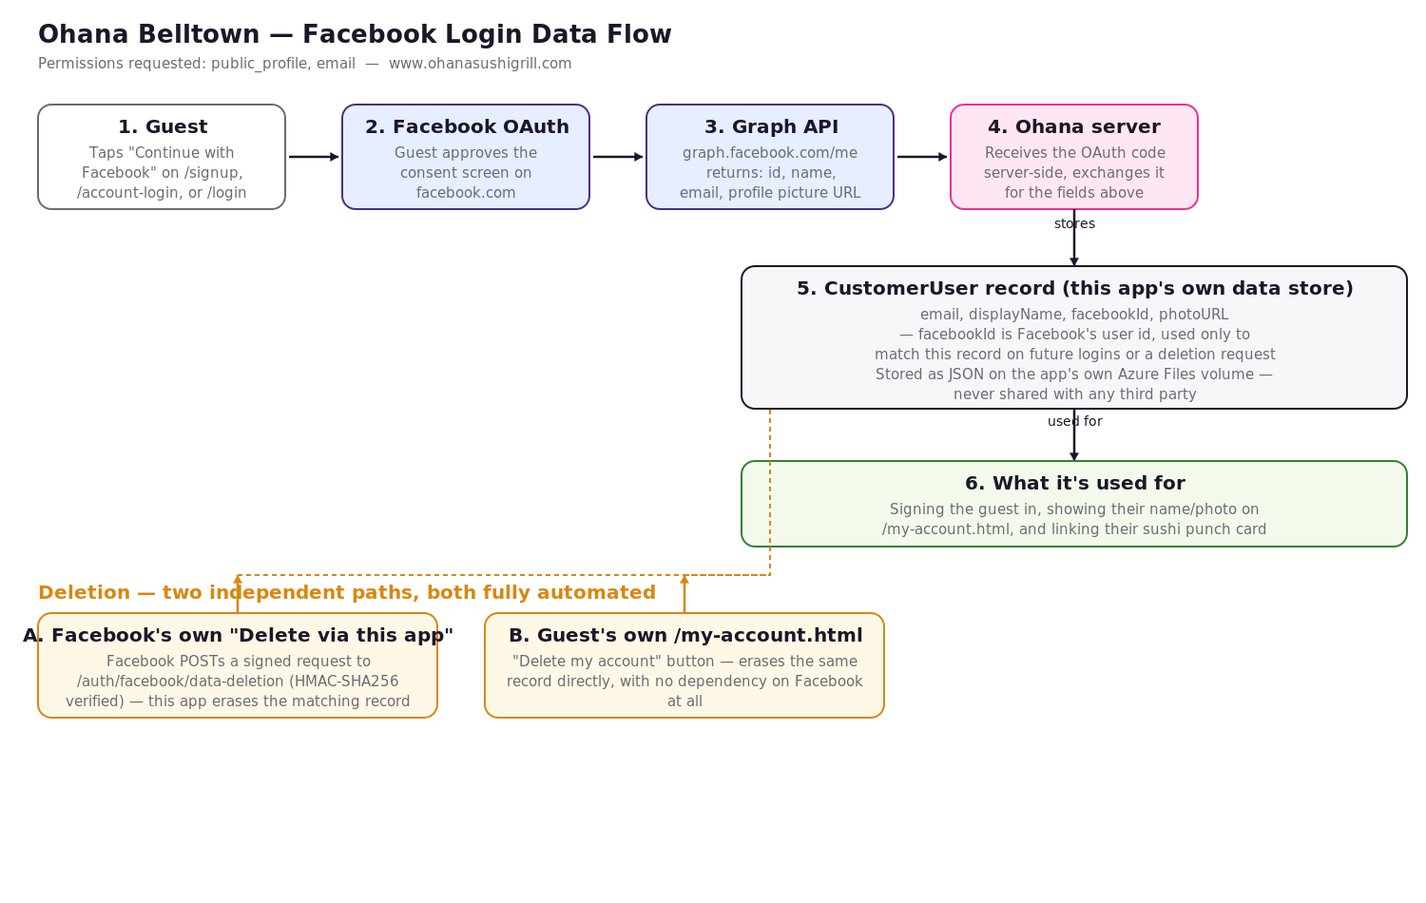
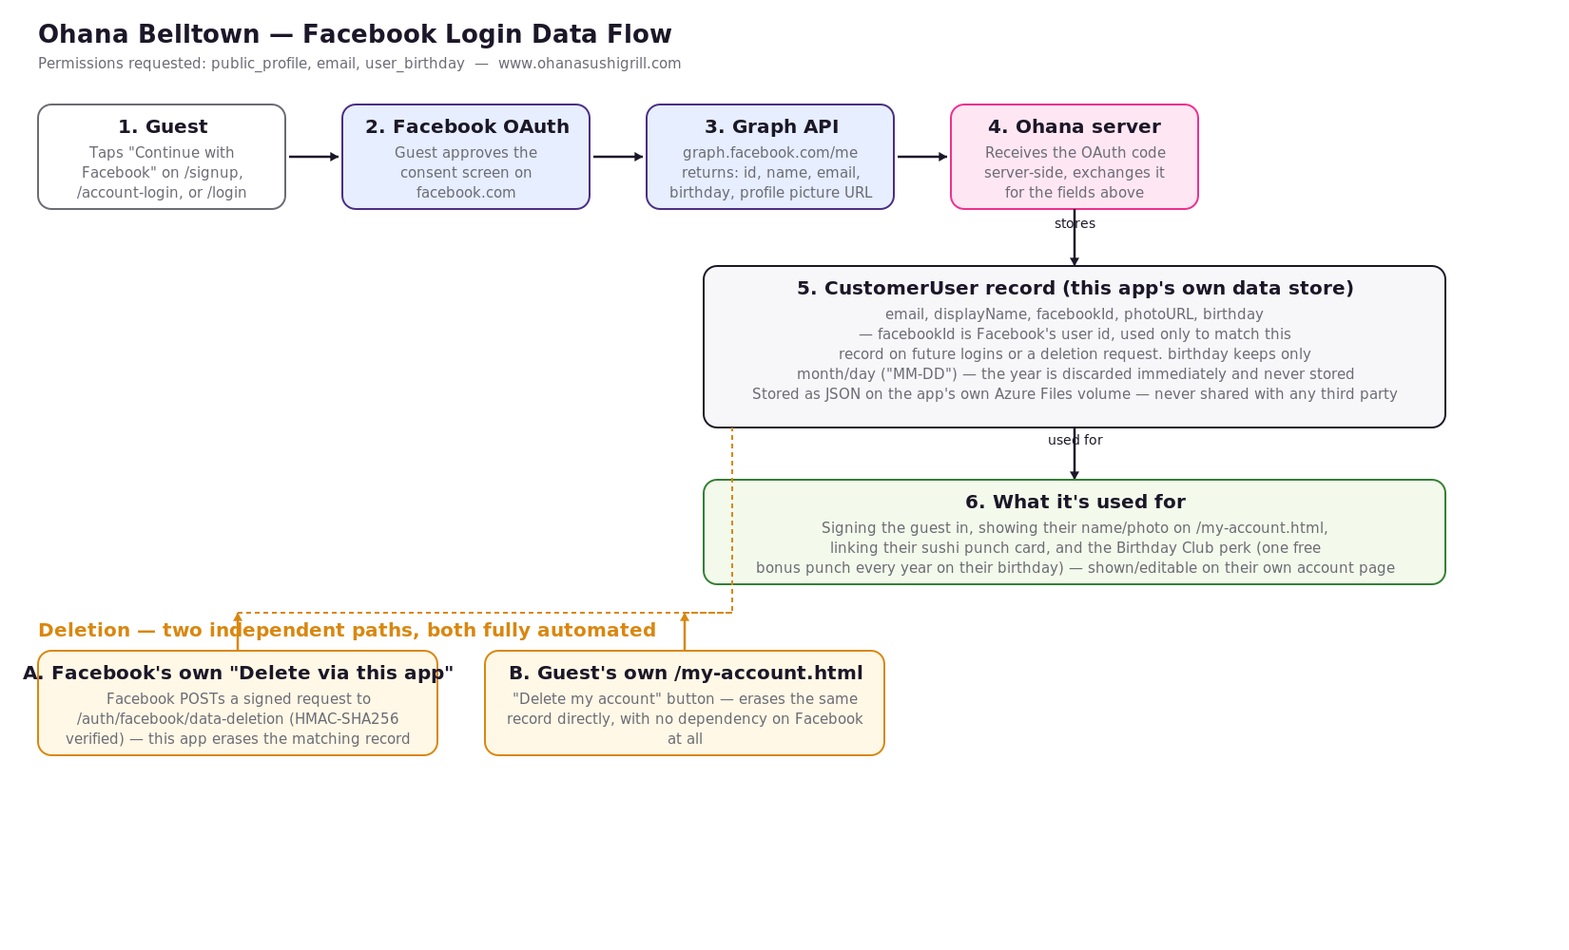
Backfill Birthday Club birthday from Facebook sign-in
The Birthday Club already had a self-service birthday field on
/my-account.html (display + edit) — this adds automatic backfill from
Facebook's user_birthday permission, following the exact same rule already
used for profile-photo backfill: only fills a blank field, never overwrites
a customer's own edit (or an earlier backfill). FacebookOAuth.parseBirthday
converts Facebook's own MM/DD/YYYY, MM/DD, or bare-YYYY formats into the
app's MM-DD, discarding the year entirely and returning nil for a
year-only share it can't use.

Google was deliberately left alone: its birthday scope is "sensitive," and
requesting it would show every real Google sign-in (live since 2026-07-25)
a "Google hasn't verified this app" warning until separately verified —
not worth it against an already-working manual-entry fallback.
user_birthday needs its own Facebook Advanced Access request, so
docs/oauth-setup.md's App Review answers and diagram are updated to
match.

Changed region(s): [[0.0, 0.0, 0.9507, 0.7937], [0.92, 0.58, 0.9507, 0.6105]]

diff --git a/server/Sources/App/FacebookOAuth.swift b/server/Sources/App/FacebookOAuth.swift
@@ -18,7 +18,7 @@ enum FacebookOAuth {
             URLQueryItem(name: "client_id", value: appId),
             URLQueryItem(name: "redirect_uri", value: redirectURI),
             URLQueryItem(name: "response_type", value: "code"),
-            URLQueryItem(name: "scope", value: "email,public_profile"),
+            URLQueryItem(name: "scope", value: "email,public_profile,user_birthday"),
             URLQueryItem(name: "state", value: state),
         ]
         guard let url = components.url else {
@@ -43,6 +43,10 @@ enum FacebookOAuth {
         var id: String
         var name: String?
         var email: String?
+        /// "MM/DD/YYYY", "MM/DD", or just "YYYY" depending on what the user
+        /// has shared — Facebook's own format, not ISO 8601. See
+        /// parseBirthday(_:) for how this becomes "MM-DD".
+        var birthday: String?
     }
 
     static func exchangeCodeAndFetchUser(code: String, redirectURI: String, client: Client) async throws -> OAuthUserInfo {
@@ -70,7 +74,7 @@ enum FacebookOAuth {
 
         var userComponents = URLComponents(string: "https://graph.facebook.com/me")!
         userComponents.queryItems = [
-            URLQueryItem(name: "fields", value: "id,name,email"),
+            URLQueryItem(name: "fields", value: "id,name,email,birthday"),
             URLQueryItem(name: "access_token", value: token.access_token),
         ]
         guard let userURL = userComponents.url else {
@@ -92,7 +96,27 @@ enum FacebookOAuth {
         // fetch failure shouldn't block login.
         let pictureURL = try? await fetchPictureURL(userId: info.id, accessToken: token.access_token, client: client)
 
-        return OAuthUserInfo(providerId: info.id, email: email, displayName: info.name ?? email, pictureURL: pictureURL)
+        return OAuthUserInfo(
+            providerId: info.id, email: email, displayName: info.name ?? email, pictureURL: pictureURL,
+            birthday: info.birthday.flatMap(Self.parseBirthday)
+        )
+    }
+
+    /// Facebook returns the birthday in its own `MM/DD/YYYY` format (or just
+    /// `MM/DD`, or bare `YYYY` if the user only shared the year) depending on
+    /// what the user's chosen to share — never guaranteed to include a full
+    /// date. The year is discarded either way, same privacy stance as the
+    /// rest of the Birthday Club (see CustomerUser.birthday): only a
+    /// `MM/DD`-shaped value can produce a result, zero-padded to match the
+    /// "MM-DD" format the manual entry form already stores.
+    static func parseBirthday(_ raw: String) -> String? {
+        let parts = raw.split(separator: "/")
+        guard parts.count >= 2, let month = Int(parts[0]), let day = Int(parts[1]),
+              (1...12).contains(month), (1...31).contains(day) else {
+            return nil
+        }
+        func zeroPadded(_ value: Int) -> String { value < 10 ? "0\(value)" : "\(value)" }
+        return "\(zeroPadded(month))-\(zeroPadded(day))"
     }
 
     private static func fetchPictureURL(userId: String, accessToken: String, client: Client) async throws -> String? {

diff --git a/server/Sources/App/CustomerUsers.swift b/server/Sources/App/CustomerUsers.swift
@@ -304,21 +304,39 @@ final class CustomerUserStore: @unchecked Sendable {
     /// account with a matching verified email, or creates a new account.
     /// Whenever the provider supplies a profile photo and the account doesn't
     /// have one on file yet, it's backfilled — covers both a brand-new signup
-    /// and an account that linked Google before this field existed.
+    /// and an account that linked Google before this field existed. Birthday
+    /// follows the exact same backfill rule (provider-supplied, only fills a
+    /// blank field, never overwrites what the customer already has on file —
+    /// whether that's a value they typed themselves or one backfilled from an
+    /// earlier login) so a customer's own edit from the Birthday Club always
+    /// wins. Only Facebook supplies one today (see FacebookOAuth.swift); nil
+    /// from Google/Apple is a no-op here, same as `pictureURL` being nil.
     @discardableResult
-    func findOrCreateFromOAuth(provider: OAuthProvider, providerId: String, email: String, displayName: String, pictureURL: String? = nil) throws -> CustomerUserPublic {
+    func findOrCreateFromOAuth(
+        provider: OAuthProvider, providerId: String, email: String, displayName: String,
+        pictureURL: String? = nil, birthday: String? = nil
+    ) throws -> CustomerUserPublic {
         lock.lock()
         defer { lock.unlock() }
         try loadIfNeeded()
         let normalized = Self.normalizeEmail(email)
         let timestamp = nowString()
+        let validBirthday = birthday.flatMap { Self.isValidMonthDay($0) ? $0 : nil }
 
         if let idx = users.firstIndex(where: { provider.id(of: $0) == providerId }) {
             guard users[idx].active else {
                 throw CustomerUserError.accountDeactivated
             }
+            var changed = false
             if let pictureURL, users[idx].photoURL == nil {
                 users[idx].photoURL = pictureURL
+                changed = true
+            }
+            if let validBirthday, users[idx].birthday == nil {
+                users[idx].birthday = validBirthday
+                changed = true
+            }
+            if changed {
                 users[idx].updatedAt = timestamp
                 try persist()
             }
@@ -334,6 +352,9 @@ final class CustomerUserStore: @unchecked Sendable {
             if let pictureURL, users[idx].photoURL == nil {
                 users[idx].photoURL = pictureURL
             }
+            if let validBirthday, users[idx].birthday == nil {
+                users[idx].birthday = validBirthday
+            }
             users[idx].updatedAt = timestamp
             try persist()
             return CustomerUserPublic(users[idx])
@@ -347,6 +368,7 @@ final class CustomerUserStore: @unchecked Sendable {
             googleId: nil,
             appleId: nil,
             verified: true,
+            birthday: validBirthday,
             photoURL: pictureURL,
             verificationToken: nil,
             resetToken: nil,

diff --git a/server/Tests/AppTests/CustomerUserStoreTests.swift b/server/Tests/AppTests/CustomerUserStoreTests.swift
@@ -185,6 +185,48 @@ final class CustomerUserStoreTests: XCTestCase {
         XCTAssertEqual(second.photoURL, "https://example.com/first.png")
     }
 
+    func testOAuthSignupCapturesBirthday() throws {
+        let customer = try CustomerUserStore.shared.findOrCreateFromOAuth(
+            provider: .facebook, providerId: "fb-1", email: "oauth@example.com", displayName: "OAuth User",
+            birthday: "07-26"
+        )
+        XCTAssertEqual(customer.birthday, "07-26")
+    }
+
+    func testOAuthBackfillsMissingBirthdayOnSubsequentLogin() throws {
+        let first = try CustomerUserStore.shared.findOrCreateFromOAuth(
+            provider: .facebook, providerId: "fb-1", email: "oauth@example.com", displayName: "OAuth User"
+        )
+        XCTAssertNil(first.birthday)
+
+        let second = try CustomerUserStore.shared.findOrCreateFromOAuth(
+            provider: .facebook, providerId: "fb-1", email: "oauth@example.com", displayName: "OAuth User",
+            birthday: "12-25"
+        )
+        XCTAssertEqual(second.birthday, "12-25")
+    }
+
+    // A customer's own edit from the Birthday Club (or an earlier backfill)
+    // must always win — an OAuth login should never silently overwrite it.
+    func testOAuthDoesNotOverwriteExistingBirthday() throws {
+        let (customer, _) = try CustomerUserStore.shared.register(email: "oauth@example.com", displayName: "OAuth User", password: "guestpass1")
+        try CustomerUserStore.shared.updateBirthday(id: customer.id, birthday: "01-15")
+
+        let linked = try CustomerUserStore.shared.findOrCreateFromOAuth(
+            provider: .facebook, providerId: "fb-1", email: "oauth@example.com", displayName: "OAuth User",
+            birthday: "12-25"
+        )
+        XCTAssertEqual(linked.birthday, "01-15")
+    }
+
+    func testOAuthIgnoresAnInvalidBirthdayFormat() throws {
+        let customer = try CustomerUserStore.shared.findOrCreateFromOAuth(
+            provider: .facebook, providerId: "fb-1", email: "oauth@example.com", displayName: "OAuth User",
+            birthday: "not-a-date"
+        )
+        XCTAssertNil(customer.birthday)
+    }
+
     func testLoyaltyPhoneCanBeLinkedAndNormalized() throws {
         let (customer, _) = try CustomerUserStore.shared.register(email: "guest@example.com", displayName: "Guest", password: "guestpass1")
         let linked = try CustomerUserStore.shared.updateLoyaltyPhone(id: customer.id, phone: "(206) 555-0100")

diff --git a/server/Sources/App/OAuthRoutes.swift b/server/Sources/App/OAuthRoutes.swift
@@ -108,7 +108,7 @@ func registerOAuthRoutes(_ app: Application) throws {
             if parsed.audience == "customer" {
                 let customer = try CustomerUserStore.shared.findOrCreateFromOAuth(
                     provider: .google, providerId: info.providerId, email: info.email, displayName: info.displayName,
-                    pictureURL: info.pictureURL
+                    pictureURL: info.pictureURL, birthday: info.birthday
                 )
                 req.session.data["customerId"] = customer.id
                 return req.redirect(to: "/logged-in")
@@ -156,7 +156,7 @@ func registerOAuthRoutes(_ app: Application) throws {
             if parsed.audience == "customer" {
                 let customer = try CustomerUserStore.shared.findOrCreateFromOAuth(
                     provider: .facebook, providerId: info.providerId, email: info.email, displayName: info.displayName,
-                    pictureURL: info.pictureURL
+                    pictureURL: info.pictureURL, birthday: info.birthday
                 )
                 req.session.data["customerId"] = customer.id
                 return req.redirect(to: "/logged-in")

diff --git a/server/Tests/AppTests/FacebookOAuthTests.swift b/server/Tests/AppTests/FacebookOAuthTests.swift
@@ -1,0 +1,23 @@
+import XCTest
+@testable import App
+
+final class FacebookOAuthTests: XCTestCase {
+    func testParsesFullDateDroppingTheYear() throws {
+        XCTAssertEqual(FacebookOAuth.parseBirthday("07/26/1990"), "07-26")
+    }
+
+    func testParsesMonthAndDayWithNoYearShared() throws {
+        XCTAssertEqual(FacebookOAuth.parseBirthday("3/5"), "03-05")
+    }
+
+    func testReturnsNilForYearOnlySharing() throws {
+        // Some users only share the year, not the month/day — nothing usable here.
+        XCTAssertNil(FacebookOAuth.parseBirthday("1990"))
+    }
+
+    func testReturnsNilForGarbage() throws {
+        XCTAssertNil(FacebookOAuth.parseBirthday(""))
+        XCTAssertNil(FacebookOAuth.parseBirthday("not-a-date"))
+        XCTAssertNil(FacebookOAuth.parseBirthday("13/40/1990"))
+    }
+}

diff --git a/server/Sources/App/OAuthProvider.swift b/server/Sources/App/OAuthProvider.swift
@@ -7,6 +7,11 @@ struct OAuthUserInfo {
     /// A profile photo URL, when the provider supplies one. Google does;
     /// Apple Sign In never does, so this is always nil for that provider.
     var pictureURL: String? = nil
+    /// "MM-DD" (year always discarded, same privacy stance as the rest of
+    /// the Birthday Club — see CustomerUser.birthday), when the provider
+    /// supplies one. Only Facebook does today (see FacebookOAuth.swift);
+    /// nil for every other provider/whenever the user hasn't shared it.
+    var birthday: String? = nil
 }
 
 enum OAuthConfigError: Error {

diff --git a/README.md b/README.md
@@ -286,6 +286,7 @@ now historical background rather than the current plan.
 - **Google and Facebook are both configured** (Google since 2026-07-25, Facebook since 2026-09-08 — see [`docs/oauth-setup.md`](docs/oauth-setup.md)). Both buttons are live across `/signup`, `/account-login`, `/login`, and the account-linking button on `/account.html`. Apple is fully built underneath but stays hidden until its credentials exist. X/Twitter and Instagram were deliberately not built — X's API pricing for third-party login is unclear/likely paid, and Instagram isn't designed as a general-purpose login provider.
 - **Facebook app is in Development Mode** until switched to Live in the Facebook developer dashboard (Basic Settings → requires a privacy policy URL, `https://www.ohanasushigrill.com/privacy` already works) — until then, only accounts added as testers/admins under App Roles can actually complete Facebook sign-in; everyone else gets an error from Facebook itself, not from this app. If Facebook's dashboard also asks for a data-use description/diagram before going Live, ready-to-paste answers and a matching diagram are in [`docs/oauth-setup.md`](docs/oauth-setup.md#going-live--app-review--data-handling-questionnaire).
 - **Facebook Data Deletion callback** (`POST /auth/facebook/data-deletion`, `FacebookDataDeletion.swift`) — required by Facebook App Review before Login can go Live. When a user asks Facebook (via Facebook's own settings, not ours) to delete their data, Facebook POSTs a signed request here; the app verifies it (HMAC-SHA256 against the App Secret, `FacebookDataDeletion.parseUserId`) and deletes any matching customer account outright or, for a staff account, just unlinks the Facebook connection (a staff record is a real employment record the restaurant created, not something Facebook created, so the whole account isn't in scope). Responds with a confirmation URL pointing at `/data-deletion-status`, a static confirmation page. Configured in Facebook's dashboard as the **Data Deletion Request URL** — see [`docs/oauth-setup.md`](docs/oauth-setup.md).
+- **Birthday backfilled from Facebook** (2026-09-26) — the Birthday Club (see the loyalty program below) already had a self-service birthday field on `/my-account.html`; a Facebook sign-in now also offers to fill it in automatically, via a new `user_birthday` permission (`FacebookOAuth.parseBirthday` — Facebook's own `MM/DD/YYYY`/`MM/DD`/bare-`YYYY` formats, converted to the app's `MM-DD`, discarding the year entirely; returns nil rather than a wrong guess if the user only shared a year). `CustomerUserStore.findOrCreateFromOAuth` only fills a blank `birthday` field, exactly the same backfill rule already used for the profile photo — a customer's own edit always wins and is never silently overwritten by a later Facebook login. Google was deliberately **not** wired up for this: its birthday scope is "sensitive," and requesting it would show every real customer signing in with Google (live since 2026-07-25) a "Google hasn't verified this app" warning until that scope is separately verified — not worth the tradeoff for a nice-to-have autofill when manual entry already works. `user_birthday` needs its own Facebook Advanced Access request, on top of the Development→Live switch above — ready-to-paste answers are in [`docs/oauth-setup.md`](docs/oauth-setup.md#going-live--app-review--data-handling-questionnaire).
 - **Fixed**: a failed Facebook sign-in was downloading a file called "callback.json" to the customer's browser instead of showing an error. Root cause was two-layer: (1) Facebook's Graph API labels its JSON responses `Content-Type: text/javascript; charset=UTF-8` — a long-standing quirk, not an error — and Vapor has no decoder registered for that media type, so `response.content.decode(_:)` threw a 415 even though the body was valid JSON (`FacebookOAuth.decodeFacebookJSON` now decodes with `JSONDecoder` directly from the response bytes, sidestepping the header entirely); (2) that throw, and any other post-code/state-check OAuth failure, was uncaught in the callback route, so Vapor's raw error response reached the browser — which, hit via a full-page navigation to a URL with no file extension, Chrome/Safari download instead of display. All four callbacks (Google, Facebook, both Apple) now run through a shared `oauthCallbackFallback` (`OAuthRoutes.swift`) that catches any failure and redirects to `/account-login?error=oauth_failed` or `/login?error=oauth_failed` instead, logging the real cause server-side so it's still diagnosable.
 
 </details>
@@ -299,7 +300,7 @@ now historical background rather than the current plan.
 - `sitemap.xml` and `robots.txt`
 - Cache-Control revalidation on every response (avoids stale-cache bugs after a deploy)
 - Accessibility pass — fixed real WCAG AA contrast failures (brand pink/gold read ~3:1 as text on light backgrounds; added darker `--pink-text`/`--gold-text` variants used only for text, keeping the brighter originals for backgrounds/borders), a focus state that was fully removed without a visible replacement, and a heading-hierarchy skip on the Contact page. Alt text was already solid site-wide.
-- Automated test suite (`server/Tests/AppTests`, 310 tests) — loyalty punch/redeem math (including automatic sushi-order punches, birthday bonuses, referral bonuses, the redemption cap, and receipt-claim punches), the order-system phase's public-read/admin-write boundary, waitlist and table-order lifecycle behavior (including prep-time estimation, delivery-stats aggregation, cancellation, and table-less pickup orders), analytics aggregation (including OS/browser/device-model user-agent parsing), single-item menu CRUD, staff and customer auth (including deactivation, self-service account deletion, OAuth linking/photo- and email-backfill for both account types, Facebook as an independent provider alongside Google/Apple, the Facebook Data Deletion callback's signature verification and its customer-delete/staff-unlink behavior, every OAuth callback's redirect-not-leak fallback on a failed exchange, nicknames, and rewards-card linking), entertainment booking CRUD/date-math including the date-to-weekday derivation (`EntertainmentStoreTests`) and the `entertainmentProvider` role's route- and page-level access boundaries, the weekday-filtered upcoming query, and the 7 per-night pages' routing (`RouteTests`), menu-item engagement tracking (photo vs. details clicks rolled up per item with correct unique-visitor de-duplication, plus tap-rate combining impressions and taps with a correct nil-vs-zero distinction for never-shown items), menu backward-compat decoding, the Happy Hour time-window/QR-redirect logic (including table-id passthrough and the always-Happy-Hour `hh=1` flag), per-table QR-scan tracking (table vs. generic front-door bucketing, and the Happy Hour flip-side scan counting toward its own table), competitor-photo review tracking, station-light cue planning, and route-level permission boundaries. Run with `swift test` from `server/` — see [Local development](#local-development) for the GCC-version workaround this sandbox needs to actually build/link locally rather than relying only on CI.
+- Automated test suite (`server/Tests/AppTests`, 318 tests) — loyalty punch/redeem math (including automatic sushi-order punches, birthday bonuses, referral bonuses, the redemption cap, and receipt-claim punches), the order-system phase's public-read/admin-write boundary, waitlist and table-order lifecycle behavior (including prep-time estimation, delivery-stats aggregation, cancellation, and table-less pickup orders), analytics aggregation (including OS/browser/device-model user-agent parsing), single-item menu CRUD, staff and customer auth (including deactivation, self-service account deletion, OAuth linking/photo-, email-, and birthday-backfill for both account types — a customer's own edit always wins over a later OAuth login, never overwritten — Facebook birthday-string parsing across its `MM/DD/YYYY`/`MM/DD`/bare-`YYYY` formats, Facebook as an independent provider alongside Google/Apple, the Facebook Data Deletion callback's signature verification and its customer-delete/staff-unlink behavior, every OAuth callback's redirect-not-leak fallback on a failed exchange, nicknames, and rewards-card linking), entertainment booking CRUD/date-math including the date-to-weekday derivation (`EntertainmentStoreTests`) and the `entertainmentProvider` role's route- and page-level access boundaries, the weekday-filtered upcoming query, and the 7 per-night pages' routing (`RouteTests`), menu-item engagement tracking (photo vs. details clicks rolled up per item with correct unique-visitor de-duplication, plus tap-rate combining impressions and taps with a correct nil-vs-zero distinction for never-shown items), menu backward-compat decoding, the Happy Hour time-window/QR-redirect logic (including table-id passthrough and the always-Happy-Hour `hh=1` flag), per-table QR-scan tracking (table vs. generic front-door bucketing, and the Happy Hour flip-side scan counting toward its own table), competitor-photo review tracking, station-light cue planning, and route-level permission boundaries. Run with `swift test` from `server/` — see [Local development](#local-development) for the GCC-version workaround this sandbox needs to actually build/link locally rather than relying only on CI.
 - **Fixed**: `/analytics.html` itself has always been admin-only at the page level, but 3 of the API endpoints behind it (`delivery-stats`, `occupancy-stats`, `feedback` list/acknowledge) only required *some* staff login underneath — meaning a non-admin employee could still pull that data by calling the API directly, bypassing the page gate. All now require admin. The site-wide "N new feedback" badge every staff member sees (not just admins) is unaffected — that one only ever exposed a bare count, not the feedback content.
 - Self-hosted analytics (`/analytics.html`, admin only) — pageview counts by page and by day, device type (mobile/tablet/desktop), operating system (iPhone/iPad/Android/macOS/Windows/Linux), browser (Safari/Chrome/Firefox/Edge/Samsung Internet/Opera), best-effort Android hardware model (e.g. "Pixel 8" — parsed only when a browser's user-agent happens to include it; iOS never exposes a specific model, so there's no equivalent list for Apple devices), average time on page, and most-viewed menu items (detail-popup opens — a proxy for interest, not a sales figure, since this site has no access to real order data from ChowNow). No cookies, no third-party tracking script, no per-visitor identity anywhere. Bounded to 120 days of aggregated data. (The device/customer-attributed photo-vs-details tap tracking under Menu experience above is a deliberately separate, non-anonymous store — this promise is about this pageview/device/browser data specifically, not a site-wide guarantee.)
 - `/analytics.html` landing view is a grid of compact summary cards (one per section — peak day, most-viewed page/item, device/OS/browser split, sitewide missing-price/photo counts, etc.), not a long single-column scroll. Clicking a card — or a notification link like `/analytics.html?section=feedback` — expands just that section into a full detail view, so the target always lands exactly where intended (no other section's async-loaded content is above it to shift the page after the click).

diff --git a/docs/oauth-setup.md b/docs/oauth-setup.md
@@ -134,6 +134,19 @@ the same field a user gets from signing up with a plain email/password.
 It's never shared with third parties or used for marketing without a
 separate opt-in."
 
+**`user_birthday`** (added 2026-09-26 — requires its own Advanced Access
+request under **Permissions and Features**, separate from the
+`public_profile`/`email` default access above) — "Ohana Belltown uses
+user_birthday to offer the user's Birthday Club perk (one free bonus punch
+on their sushi punch card every year on their birthday) without asking them
+to type their birthday in twice. We discard the year entirely — only the
+month and day are ever stored (`CustomerUser.birthday`, format `MM-DD`) —
+and only fill this field the first time it's empty; a user's own edit from
+their account page always takes precedence and is never overwritten by a
+later Facebook login. The birthday is shown back to the user on their own
+account page and can be changed or cleared there at any time, independent
+of Facebook."
+
 **Data deletion** — "If a user removes Ohana Belltown from their Facebook
 account, or requests deletion via Facebook's own settings, Facebook sends a
 signed server-to-server request to our Data Deletion Request URL
